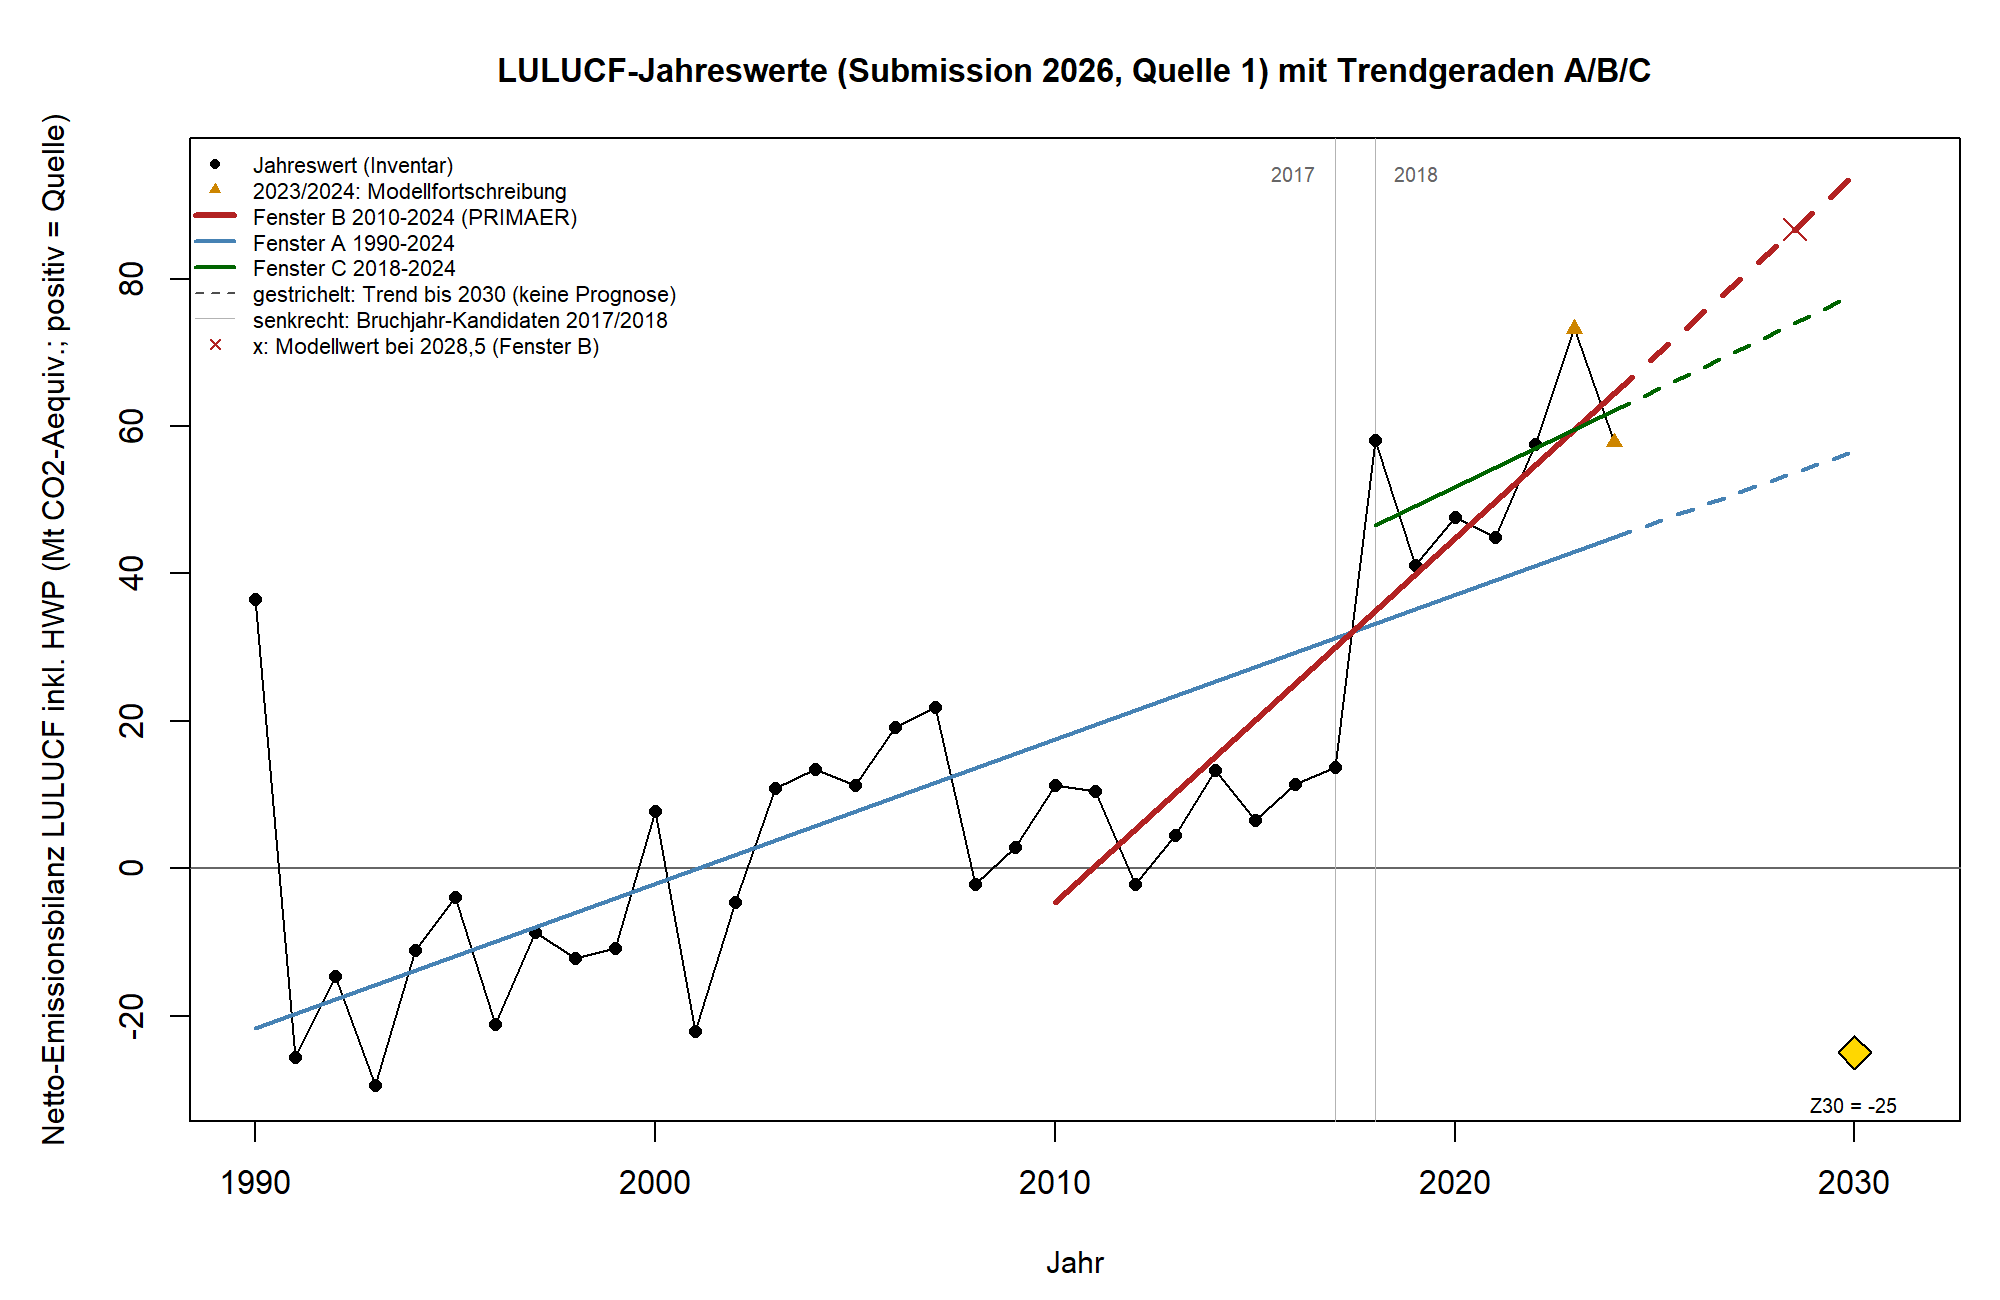
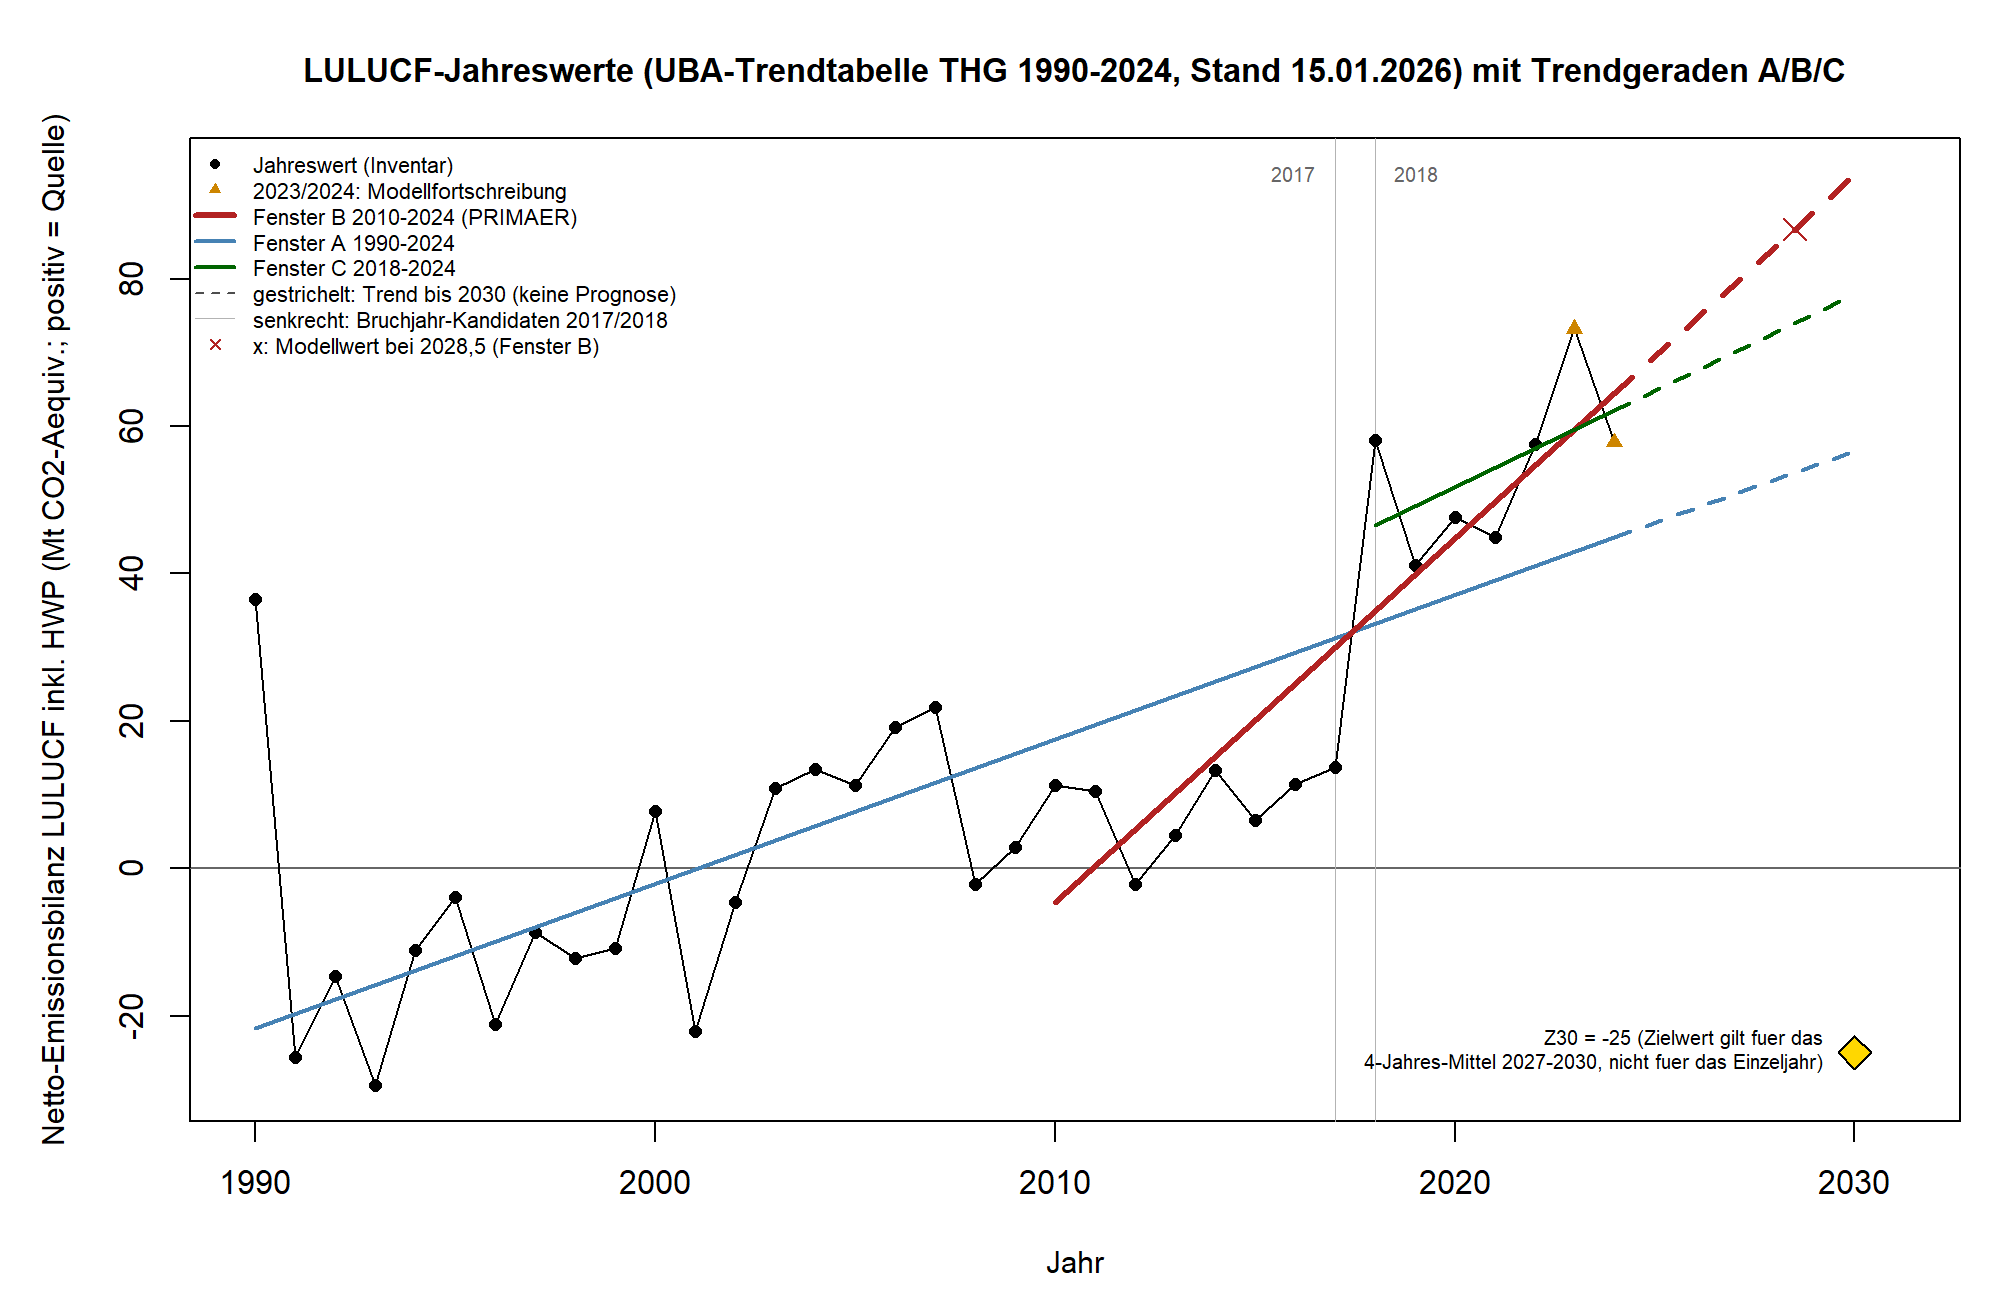
Wald/Landnutzung: Auflagen A1-A4 des Validators umgesetzt (Lizenzhinweis, Pflichtsaetze, Offenlegung, p-Werte, Grafik 1); alle CSV-Ergebnisse unveraendert; Nachpruefung steht aus

Changed region(s): [[0.155, 0.0308, 0.93, 0.0615], [0.682, 0.7692, 0.93, 0.8615]]

diff --git a/Analysen/2026-10-lulucf-senke/Analysebericht_lulucf-senke.md b/Analysen/2026-10-lulucf-senke/Analysebericht_lulucf-senke.md
@@ -6,12 +6,15 @@ Alle Zahlen: Mt CO2-Aequivalent, positiv = Quelle, negativ = Senke. "Trendfortsc
 
 ## 0. Vorgehen, Daten, Aussagegrenzen
 
-- Vorwissen (SAP 0, 8.5): SAP vor Auswertung der Zeitreihe verfasst, mit offengelegtem Vorwissen (Aggregatwerte der UBA-Seite, Methodik aus dem Inventarbericht, Sekundaerquellen zum Bruchjahr). Die UBA-PDF wurde vor der Auswertung heruntergeladen, aber nicht geoeffnet (erstes Oeffnen: Stopp, Abweichungsprotokoll Eintrag 1); die beiden xlsx-Dateien hat der Analyst als Erster geoeffnet (Zeitstempel im Run-Log).
+- Vorwissen (SAP 0, 8.5): SAP vor Auswertung der Zeitreihe verfasst, mit offengelegtem Vorwissen ueber Aggregatwerte und Methodik. Im Einzelnen: (a) Die UBA-PDF-Tabelle wurde vor der Auswertung heruntergeladen, aber nicht geoeffnet; beim ersten Oeffnen durch den Analysten (pdftotext, Stopp, Abweichungsprotokoll Eintrag 1) sah dieser Spaltenkoepfe, Kategoriezeilen und Fussnote; die beiden xlsx-Dateien hat der Analyst als Erster geoeffnet (Zeitstempel im Run-Log). (b) Der Inventarbericht 2026 wurde heruntergeladen und nur per Stichwortsuche zu GWP, Neuberechnung und Bundeswaldinventur gelesen, ohne Zeitreihenwerte. (c) Die Aggregatwerte der UBA-Seite (Gesamtsektor 1990 und 2024, Kategorienwerte 2024) wurden vom Orchestrator gesehen; die Jahre 1991-2023 nicht. Hinzu kommen Sekundaerquellen zum Bruchjahr (2017/2018, ungeprueft) und die Pressemitteilung zum Schaetzwert 2025. Das Vorwissen hat keine Behandlung von Kategorie, Fenster oder Bruchjahr gegenueber dem SAP veraendert.
 - Primaerreihe: Zeile "4. Land Use, Land Use Change and Forestry" (Quelle 1, Blatt GHG_CO2eq), inkl. Holzprodukten (HWP als eigene Zeile). n = 35 (1990-2024), lueckenlos. Einheit kt, durch 1.000 geteilt; Vorzeichen deckt sich mit der SAP-Konvention.
 - Amendment-Fall 1 (Quelle 1 lueckenlos): alle drei Fenster A, B, C sind durchfuehrbar.
 - Summenpruefung (Kategorien inkl. HWP gegen Gesamt): maximale Differenz praktisch 0 (Toleranz 0,5 Mt erfuellt).
 - Kontrollen: Quelle 2 (alle 35 gemeinsamen Jahre, Gesamt und alle sechs Kategorien): keine Differenz ueber der Schwelle 0,5 Mt (maximale Differenz in der Groessenordnung 1e-14, also identische Werte). PDF-Stichprobe 1990, 2000, 2010, 2020, 2024 (Gesamt und sechs Kategorien, 35 Zellen): doppelte Uebertragung (Sichtablesung der Seite als Bild gegen maschinelle Positionsauslese): 0 Differenzen; PDF gegen Quelle 1: 0 Abweichungen ueber 0,5 Mt (nur Rundungsunterschiede unter 0,0001 Mt). Auch alle weiteren PDF-Gesamtwerte 1990-2024 stimmen. Hinweis zur Fussnote der PDF ("Inventare 1990 bis 2022, Stand 03/2024"): nach dem Abgleich erscheint sie veraltet; die PDF-Werte entsprechen der Quelle 1. Das ist ein Hinweis, die Fassungsbezeichnung "Submission 2026" steht in den Dateikoepfen der Quelle 1 jedoch nicht woertlich (Hinweis, kein Wechsel der Referenz).
 - GWP: Quelle 2 weist GWP CH4 = 28, N2O = 265 aus (konsistent mit AR5, wie im Inventarbericht); Quelle 1 nennt die Basis nicht.
+- **Einordnung (SAP 8.2, 8.3, 8.4):** Ein im Trend sichtbarer Verlauf kann zum Teil ein Methodik- oder Modelleffekt sein (jaehrliche vollstaendige Neuberechnung, grundlegende Methodenaenderungen mit der Submission 2026, Modellfortschreibung 2023/2024, Bruchjahr-Kandidaten 2017/2018); dieser Anteil wird nicht herausgerechnet, sondern ueber S3, S4 (nicht durchgefuehrt) und S6 sichtbar gemacht. Die LULUCF-Bilanz ist nicht Teil der Gesamtemissionen ohne LULUCF; beide Groessen werden nicht vermischt, und das Senkenziel ist kein Beitrag zur Reduktion der uebrigen Emissionen. Biologische Senken sind nicht dauerhaft garantiert (Stoerungen, Umkehrbarkeit); das wird ohne Bewertung festgehalten.
+- **Lizenz (SAP 3.1, 11, K13, noch offen):** Fuer die UBA-PDF-Tabelle, die beiden UBA-xlsx-Dateien und den Data Cube ist die Lizenz nicht bestaetigt. Nach einem Suchergebnis stehen UBA-eigene Texte und Grafiken unter CC BY-NC-ND 4.0, viele UBA-Datensaetze unter Datenlizenz Deutschland - Namensnennung 2.0 (DL-DE-BY-2.0). Zahlen und eigene Auswertungen mit Quellenangabe sind voraussichtlich unkritisch; vor dem Abdruck von UBA-Grafiken oder -Tabellen im Wortlaut ist die Lizenz zu klaeren.
+- **Tabellenzuschnitt (Hinweis):** Die Tabellen des Reporting-Plans (SAP 11) liegen verteilt vor: DW und Diagnostik in `tab_diagnostik.csv`, ARIMA in `tab_S1_arima.csv`, S2 in `tab_S2_Q_HAC.csv` und `tab3_fenster_A_B_C.csv`, S6c/S6d in `tab_S6c_niveausprung.csv`/`tab_S6d_fenster_D.csv`; `tab5_...csv` enthaelt S3, S5, S6a und S7.
 - **Aussagegrenzen (SAP 4.3):** (1) 2023 und 2024 sind laut Inventarbericht Modellfortschreibungen, keine Messungen. M(2024) und alle Fenster enthalten sie; die Gegenprobe ist S3b. (2) Die Reihe wird jaehrlich vollstaendig neu berechnet; die Aussagen gelten nur fuer diese Fassung (S4 nicht durchgefuehrt). (3) Es sind inventarbasierte Rechenwerte, keine Messreihe. (4) Das 95-%-Intervall enthaelt nur die Streuung im linearen Modell, nicht Modell-, Methoden- oder Strukturunsicherheit, keine kuenftigen Massnahmen oder Stoerungen. (5) Territoriale Inventarbilanz; keine Ursachenzuschreibung, kein Urteil ueber Massnahmen oder Regierungen. (6) Die Fenster ueberlappen und sind nicht unabhaengig; drei 95-%-Intervalle sind nicht simultan 95 %-sicher. (7) Ob die Zielwerte (-25/-35/-40) und das Mittel "Zieljahr plus drei Vorjahre" dem Volltext von § 3a KSG entsprechen, wurde vom Analysten nicht geprueft (SAP K2 offen).
 
 ## 1. E1: Abstand des juengsten Messwerts zum Ziel 2030 (deskriptiv)
@@ -42,7 +45,7 @@ Wuerde der lineare Trend des jeweiligen Fensters unveraendert weiterlaufen, laeg
 
 **Gesamtaussage (5.6):** Die drei Fenster liefern dieselbe Kategorie K-ueber: das gesamte Intervall liegt in jedem Fenster ueber dem Zielwert Z30 = -25. F2: Z30 liegt in keinem Fenster im Intervall. Das gilt fuer die lineare Fortschreibung innerhalb des Modells; es ist keine Aussage ueber die tatsaechliche Zielerreichung.
 
-Steigungstests (sekundaer, H0: beta = 0, zweiseitig, alpha = 0,05; unadjustiert / Holm ueber A, B, C): B 0,000 / 0,000; A 0,000 / 0,000; C 0,230 / 0,230. Mit Newey-West: B 0,000 / 0,000; A 0,000 / 0,000; C 0,088 / 0,088. (Genaue Werte in `output/tab3_fenster_A_B_C.csv`.) Alle Steigungen sind positiv, das heisst die Netto-Emission der Reihe steigt in allen Fenstern (in Fenster C ist das KI klassisch nicht von null verschieden).
+Steigungstests (sekundaer, H0: beta = 0, zweiseitig, alpha = 0,05; unadjustiert / Holm ueber A, B, C): B < 0,001 / < 0,001; A < 0,001 / < 0,001; C 0,230 / 0,230. Mit Newey-West: B < 0,001 / < 0,001; A < 0,001 / < 0,001; C 0,088 / 0,088. (Genaue Werte in `output/tab3_fenster_A_B_C.csv`.) Alle Steigungen sind positiv, das heisst die Netto-Emission der Reihe steigt in allen Fenstern (in Fenster C ist das KI klassisch nicht von null verschieden).
 
 ## 3. E3: Noetige und beobachtete jaehrliche Veraenderung
 

diff --git a/Analysen/2026-10-lulucf-senke/Abweichungsprotokoll_lulucf-senke.md b/Analysen/2026-10-lulucf-senke/Abweichungsprotokoll_lulucf-senke.md
@@ -1,6 +1,6 @@
 # Abweichungsprotokoll LULUCF-Senke (Analyst, 29.10.2026)
 
-**Status: Analyse GESTOPPT, keine Auswertung durchgefuehrt, kein Skript, keine Ergebnisse.**
+**Status (Endstand): Analyse nach Amendment 1 durchgefuehrt; Stopp siehe Eintrag 1.** Der Abschnitt "Durchgefuehrt / Stopp-Grund" unmittelbar darunter dokumentiert den Stand zum Zeitpunkt des Stopps (nur Oeffnen der PDF, keine Auswertung); die Fortsetzung steht ab dem Trennstrich.
 
 ## Durchgefuehrt
 - SHA-256 der UBA-Tabelle geprueft: f8cf4f382e4e7557de4307d2055d7f6c6ad4b46b9b83c1ef64b0542cc6af4b4b = PROVENIENZ.txt (erfuellt).
